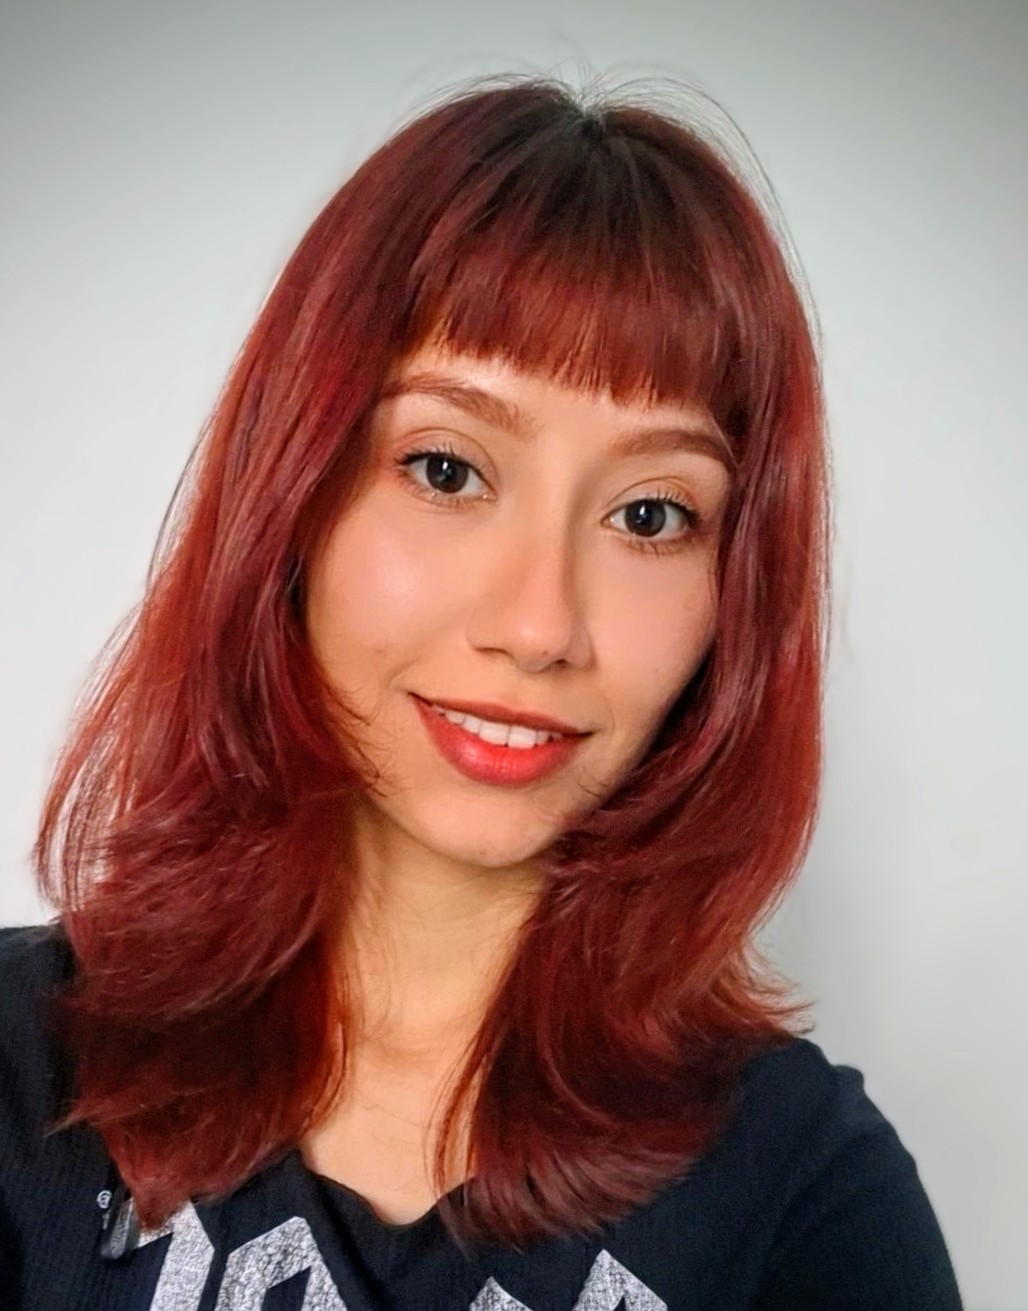
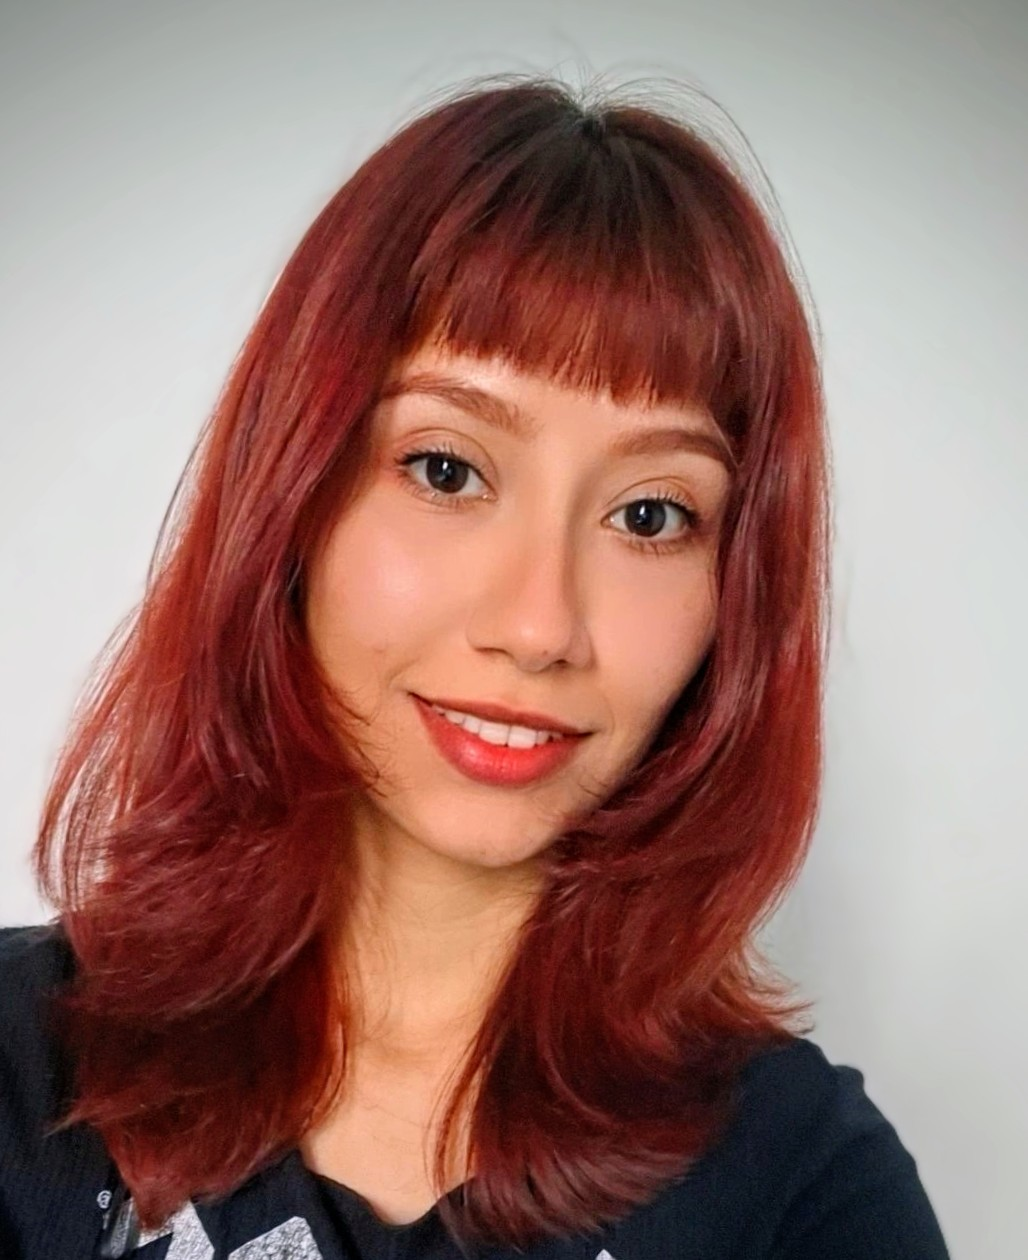
style: ajusta estilos do header e layout da seção

Changed region(s): [[0.0, 0.0929, 0.965, 1.0], [0.4047, 0.0619, 0.8093, 0.3095], [0.0, 0.9286, 0.0311, 0.9595]]

diff --git a/index.html b/index.html
@@ -30,18 +30,19 @@
         <div
           class="max-w-7xl mx-auto px-4 sm:px-6 lg:px-8 py-3 sm:py-4 flex justify-between items-center"
         >
-          <h1
-            class="text-2xl sm:text-3xl font-bold bg-clip-text text-transparent bg-gradient-to-r from-purple-500 to-pink-500"
+          <p
+            class="text-xl sm:text-2xl md:text-4xl font-light text-purple-700 dark:text-purple-300 mt-3"
+            data-aos="fade-up"
+            data-aos-delay="200"
           >
-            Vitória Santos
-          </h1>
+            Desenvolvimento web
+          </p>
 
           <div class="flex items-center space-x-6 sm:space-x-8">
             <ul class="hidden md:flex space-x-6 lg:space-x-10 font-medium">
               <li>
                 <a href="#sobre" class="hover:text-purple-500 transition"
-                  >Sobre</a
-                >
+                  >Sobre</a>
               </li>
               <li>
                 <a href="#habilidades" class="hover:text-purple-500 transition"
@@ -130,24 +131,15 @@
           >
             Vitória Santos da Cruz
           </h2>
-          <p
-            class="text-xl sm:text-2xl md:text-4xl font-light text-purple-700 dark:text-purple-300 mt-3"
-            data-aos="fade-up"
-            data-aos-delay="200"
-          >
-            Desenvolvedora Frontend
-          </p>
+          
           <p
             class="mt-6 sm:mt-8 text-base sm:text-lg md:text-xl max-w-3xl mx-auto leading-relaxed px-2 sm:px-0"
             data-aos="fade-up"
             data-aos-delay="400"
           >
-            Estudante do
-            <strong>4º período de Análise e Desenvolvimento de Sistemas</strong>,
-            apaixonada por criar interfaces bonitas e funcionais. Buscando minha
-            primeira oportunidade de <strong>estágio em Frontend</strong> para
-            aplicar HTML, CSS, JavaScript e Angular na prática!
+           Estudante do 4º período de <strong>Análise e Desenvolvimento de Sistemas</strong>, com foco em desenvolvimento web. Busco minha primeira oportunidade de estágio para colocar em prática meus conhecimentos, aprender no dia a dia com a equipe e me desenvolver profissionalmente. Tenho postura colaborativa e estou sempre disposta a aprender e aprimorar minhas habilidades.
           </p>
+          
           <div
             class="mt-10 sm:mt-12 flex flex-col sm:flex-row justify-center gap-4 sm:gap-6"
             data-aos="zoom-in"
@@ -198,26 +190,18 @@
             <div
               class="text-base sm:text-lg leading-relaxed space-y-5 sm:space-y-6 text-center md:text-left"
               data-aos="fade-left"
-              data-aos-delay="200"
-            >
+              data-aos-delay="200">
+            
               <p>
-                Olá! Sou Vitória, estudante do
-                <strong
-                  >4º período de Análise e Desenvolvimento de Sistemas</strong
-                >
-                e apaixonada por desenvolvimento frontend.
+                Atualmente tenho foco em desenvolvimento <strong>Frontend</strong>, com conhecimentos em HTML5, CSS3, JavaScript e noções de Angular, Tailwind, Git e GitHub. Mas venho ampliando meus estudos para outras tecnologias, com o objetivo de evoluir para uma atuação <strong>Full Stack</strong> se assim me permitirem e contribuir de forma mais completa e eficiente com a equipe.
               </p>
+
               <p>
-                Estou em busca da minha primeira experiência como
-                <strong>estagiária frontend</strong>, onde possa colocar em
-                prática tudo que venho aprendendo na faculdade e nos estudos
-                autônomos: HTML5, CSS3 (amo Tailwind!), JavaScript e Angular.
+                Procuro ter uma boa adaptação a novos desafios, aprender rápido e valorizo o trabalho em equipe. Meus projetos até aqui são pessoais e acadêmicos, desenvolvidos com atenção à usabilidade, experiência do usuário e um bom design, habilidades que também trago da minha vivência anterior com design gráfico. 
               </p>
+
               <p>
-                Meus projetos até aqui são pessoais e acadêmicos, mas todos feitos
-                com muito carinho e foco em responsividade, usabilidade e design
-                moderno. Estou super motivada para aprender no dia a dia,
-                contribuir com o time e crescer junto com a empresa!
+                Quero continuamente contribuir de forma consistente com a equipe, acreditando no trabalho colaborativo como parte essencial para alcançar melhores resultados.
               </p>
     
             </div>
@@ -321,6 +305,7 @@
           <i
             class="fas fa-code text-5xl sm:text-6xl text-blue-500 mb-3 sm:mb-4"
           ></i>
+
           <!-- ou use fas fa-file-code -->
           <p class="font-semibold mt-1 sm:mt-2">TypeScript</p>
           <span
@@ -506,8 +491,7 @@
             data-aos="fade-up"
             data-aos-delay="200"
           >
-            Estou super animada para começar meu estágio em frontend! Se você tem
-            vaga de estágio ou quer conversar sobre oportunidades, me chama!
+            Atualmente, busco minha primeira oportunidade em desenvolvimento web, com interesse em atuar e evoluir como desenvolvedora Frontend ou Full Stack. Estou à disposição para oportunidades e contato profissional.
           </p>
 
           <div
@@ -545,7 +529,7 @@
             </a>
           </div>
           <p class="mt-10 sm:mt-12 text-sm sm:text-base">
-            Feito com 💜 Vitória Santos
+            Feito com 💜 
           </p>
         </div>
       </section>
